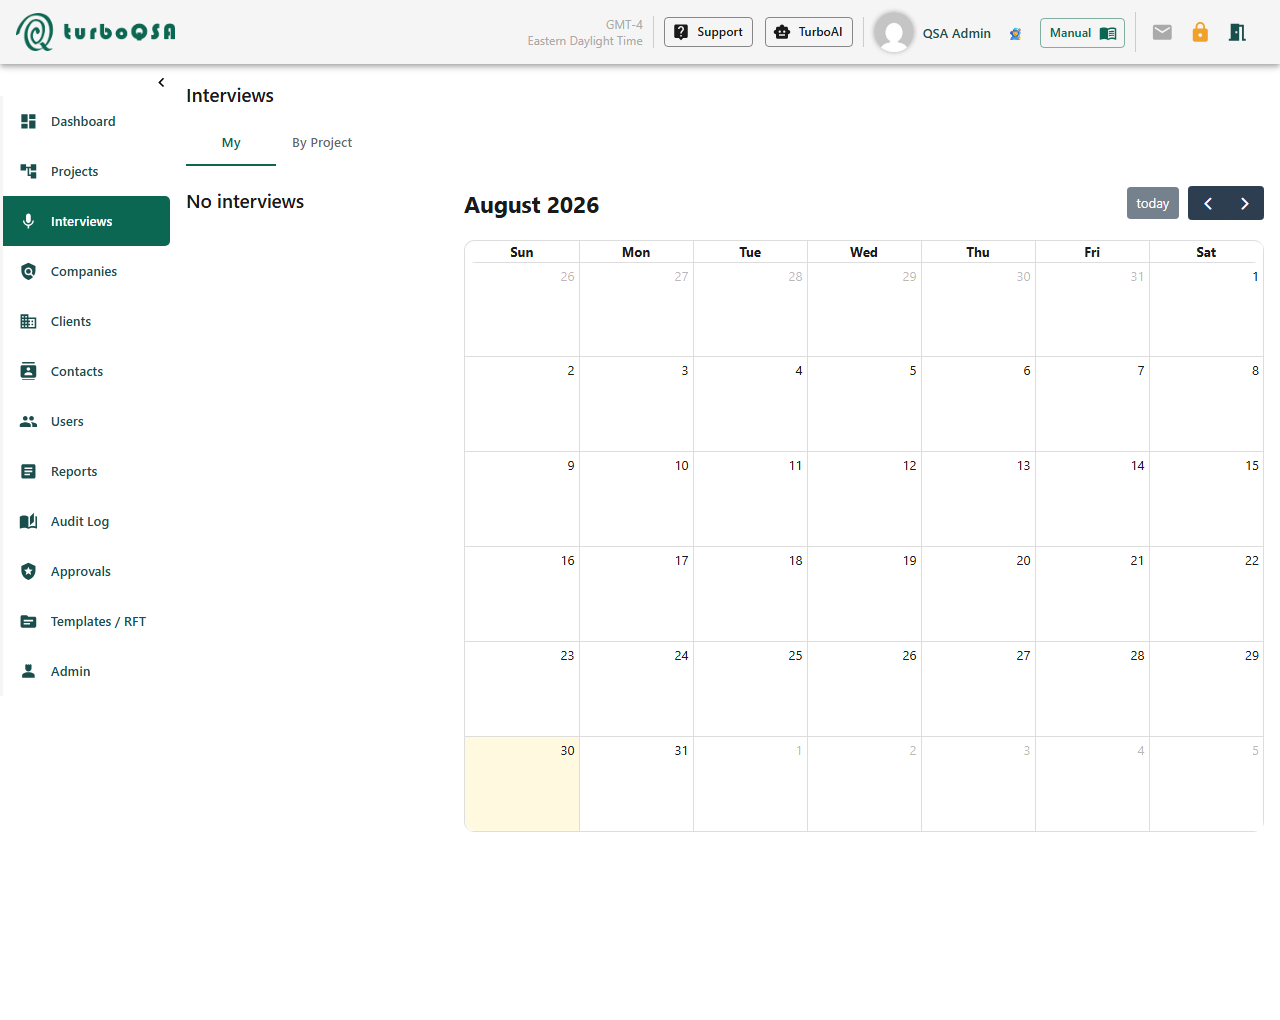
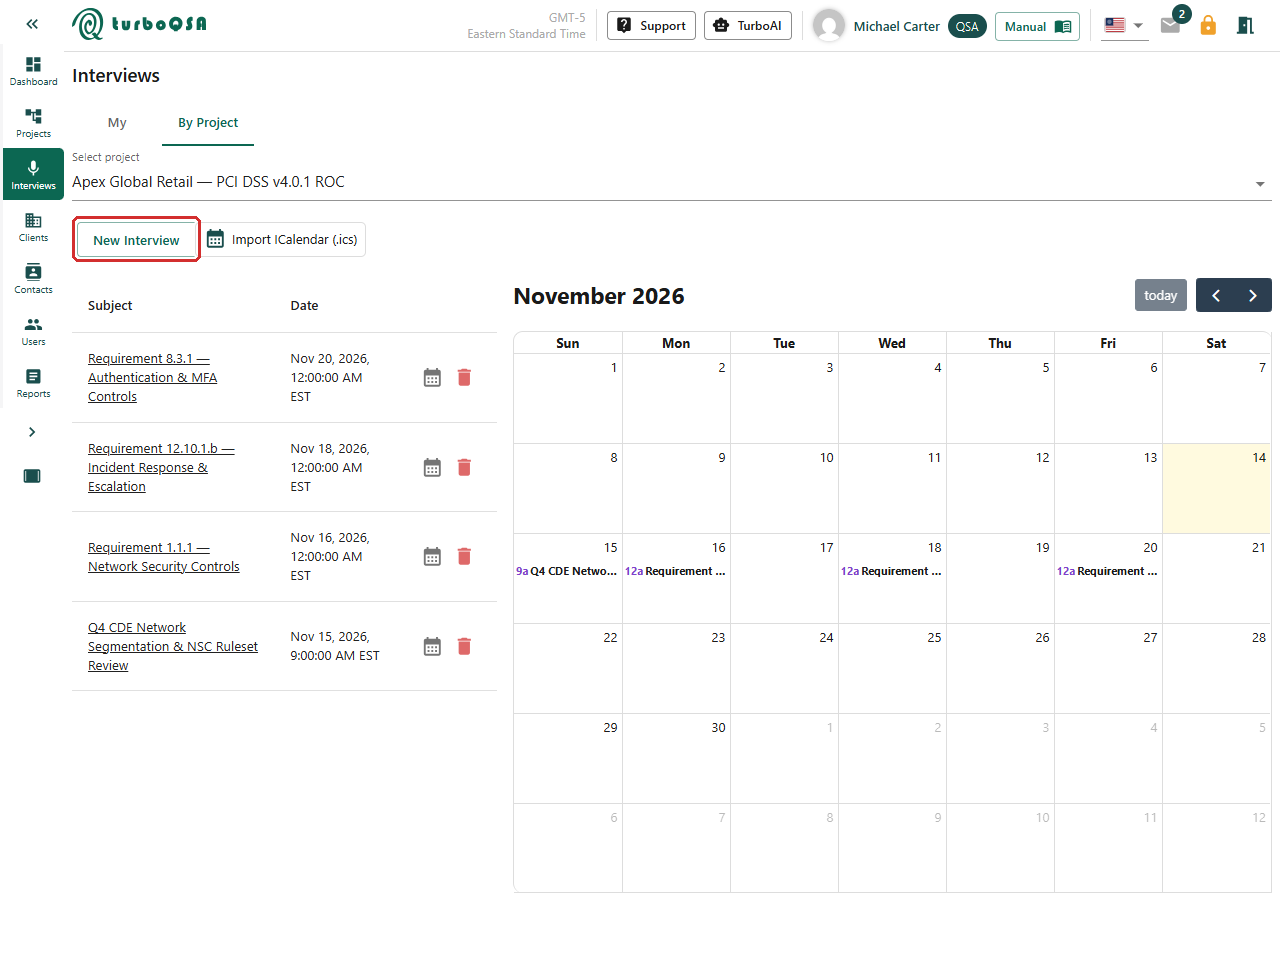
Map every Contentful feature to its topic-exact modern v4.0.1 screenshot

diff --git a/src/templates/index-page.js b/src/templates/index-page.js
@@ -13,34 +13,40 @@ import PciWorkspacePreview from '../components/PciWorkspacePreview'
 
 import turboSpiral from '../img/turbo-spiral.svg'
 import uiRocWorkspace from '../img/refresh/ui-roc-workspace.png'
-import uiFindingsCollaboration from '../img/refresh/ui-findings-collaboration.png'
-import uiRequirementsTracking from '../img/refresh/ui-requirements-tracking.png'
+import uiAutomatedQualityCheck from '../img/refresh/ui-automated-quality-check.png'
+import uiPaymentChannels from '../img/refresh/ui-payment-channels.png'
+import uiCustomerRoles from '../img/refresh/ui-customer-roles.png'
 import uiInterviewScheduler from '../img/refresh/ui-interview-scheduler.png'
 import uiTurboAiSuggestions from '../img/refresh/ui-turboai-suggestions.png'
 import uiCustomRft from '../img/refresh/ui-custom-rft.png'
 
-const DEFAULT_FEATURE_SCREENS = [
-  {
+const FEATURE_VISUAL_OVERRIDES = {
+  aqc: {
+    src: uiAutomatedQualityCheck,
+    caption: 'Automated Quality Check · PCI DSS v4.0.1 ROC QA',
+    alt: 'TurboQSA Automated Quality Check ROC QA screen highlighting incomplete items and peer review requirements on PCI DSS v4.0.1',
+  },
+  rocCompletion: {
     src: uiRocWorkspace,
-    caption: 'PCI DSS v4.0.1 ROC Tree & Part II Assessment Workspace',
-    alt: 'TurboQSA PCI DSS v4.0.1 Report on Compliance workspace showing Part II Sampling, Evidence, and Requirements tree',
+    caption: 'PCI DSS v4.0.1 ROC & AOC Workspace',
+    alt: 'TurboQSA PCI DSS v4.0.1 Report on Compliance workspace with Part II Sampling, Evidence, and Requirements tree',
   },
-  {
-    src: uiFindingsCollaboration,
-    caption: 'Requirements Findings, Collaboration Drawer & Peer Review',
-    alt: 'TurboQSA Requirement 12.2 control assessment with Collaborate drawer, Delegation, and Peer Review status',
+  paymentChannels: {
+    src: uiPaymentChannels,
+    caption: 'Per-Channel Responses & RFT Overrides',
+    alt: 'TurboQSA payment channel selection and Retail POS Terminals RFT Override controls',
   },
-  {
-    src: uiRequirementsTracking,
-    caption: 'Live Requirements Tracking Matrix (R-1 to R-12, A-1 & A-2)',
-    alt: 'TurboQSA Requirements Tracking dashboard summarizing status across PCI DSS Requirements 1 through 12 and Appendices',
+  customerRoles: {
+    src: uiCustomerRoles,
+    caption: 'Customer Roles, ECR & Responsibility Areas',
+    alt: 'TurboQSA stakeholders and roles showing Executive Client Representative, QSA, Associate QSA, Client, and Responsibility indicators',
   },
-  {
+  interviews: {
     src: uiInterviewScheduler,
-    caption: 'Audit Interview Scheduling & Project Calendar',
-    alt: 'TurboQSA Interviews calendar view for scheduling and tracking client assessment interviews',
+    caption: 'Scheduled Audit Interviews & Calendar',
+    alt: 'TurboQSA Interviews screen showing scheduled PCI DSS v4.0.1 stakeholder interviews, ICalendar import, and calendar view',
   },
-]
+}
 
 const STANDALONE_SAQ_CARDS = [
   {
@@ -91,41 +97,23 @@ const TURBO_ASSESSMENT_STANDARDS = [
   'EU AI Act',
 ]
 
-function resolveModernFeatureVisual(feature, idx) {
+function resolveModernFeatureVisual(feature) {
   const heading = (feature && feature.heading ? feature.heading : '').toLowerCase()
 
-  if (
-    heading.includes('one-click') ||
-    heading.includes('word') ||
-    heading.includes('export')
-  ) {
-    return DEFAULT_FEATURE_SCREENS[0]
+  if (heading.includes('quality check') || heading.includes('aqc')) {
+    return FEATURE_VISUAL_OVERRIDES.aqc
   }
-  if (
-    heading.includes('channel') ||
-    heading.includes('collaborat') ||
-    heading.includes('finding')
-  ) {
-    return DEFAULT_FEATURE_SCREENS[1]
+  if (heading.includes('one-click') || heading.includes('roc completion')) {
+    return FEATURE_VISUAL_OVERRIDES.rocCompletion
   }
-  if (
-    heading.includes('role') ||
-    heading.includes('responsib') ||
-    heading.includes('track') ||
-    heading.includes('progress')
-  ) {
-    return DEFAULT_FEATURE_SCREENS[2]
+  if (heading.includes('payment channel')) {
+    return FEATURE_VISUAL_OVERRIDES.paymentChannels
   }
-  if (
-    heading.includes('interview') ||
-    heading.includes('schedul') ||
-    heading.includes('calendar')
-  ) {
-    return DEFAULT_FEATURE_SCREENS[3]
+  if (heading.includes('customer role') || heading.includes('responsibility')) {
+    return FEATURE_VISUAL_OVERRIDES.customerRoles
   }
-
-  if (idx < DEFAULT_FEATURE_SCREENS.length) {
-    return DEFAULT_FEATURE_SCREENS[idx]
+  if (heading.includes('interview')) {
+    return FEATURE_VISUAL_OVERRIDES.interviews
   }
 
   return null
@@ -385,7 +373,7 @@ export const IndexPageTemplate = ({
 
           <div className="tq-features-stack">
             {features.map((feature, idx) => {
-              const modernVisual = resolveModernFeatureVisual(feature, idx)
+              const modernVisual = resolveModernFeatureVisual(feature)
               const isReverse = idx % 2 === 1
 
               return (
@@ -397,7 +385,7 @@ export const IndexPageTemplate = ({
                 >
                   <div className="tq-feature-card__copy">
                     <span className="tq-feature-card__num">
-                      Capability 0{idx + 1}
+                      Capability {String(idx + 1).padStart(2, '0')}
                     </span>
                     <h3 className="tq-feature-card__title">
                       {feature.heading}
@@ -430,10 +418,12 @@ export const IndexPageTemplate = ({
                       ) : (
                         feature.image &&
                         feature.image.gatsbyImageData && (
-                          <GatsbyImage
-                            image={feature.image.gatsbyImageData}
-                            alt={feature.heading || 'TurboQSA workspace view'}
-                          />
+                          <div className="tq-screen-frame__cms">
+                            <GatsbyImage
+                              image={feature.image.gatsbyImageData}
+                              alt={feature.heading || 'TurboQSA workspace view'}
+                            />
+                          </div>
                         )
                       )}
                     </div>

diff --git a/src/components/facelift.css b/src/components/facelift.css
@@ -1133,6 +1133,11 @@ body {
   height: auto;
 }
 
+.tq-screen-frame__cms {
+  padding: 20px;
+  background: #ffffff;
+}
+
 /* Additional Capability & Platform Pillar Grids */
 .tq-dual-showcase {
   display: grid;
